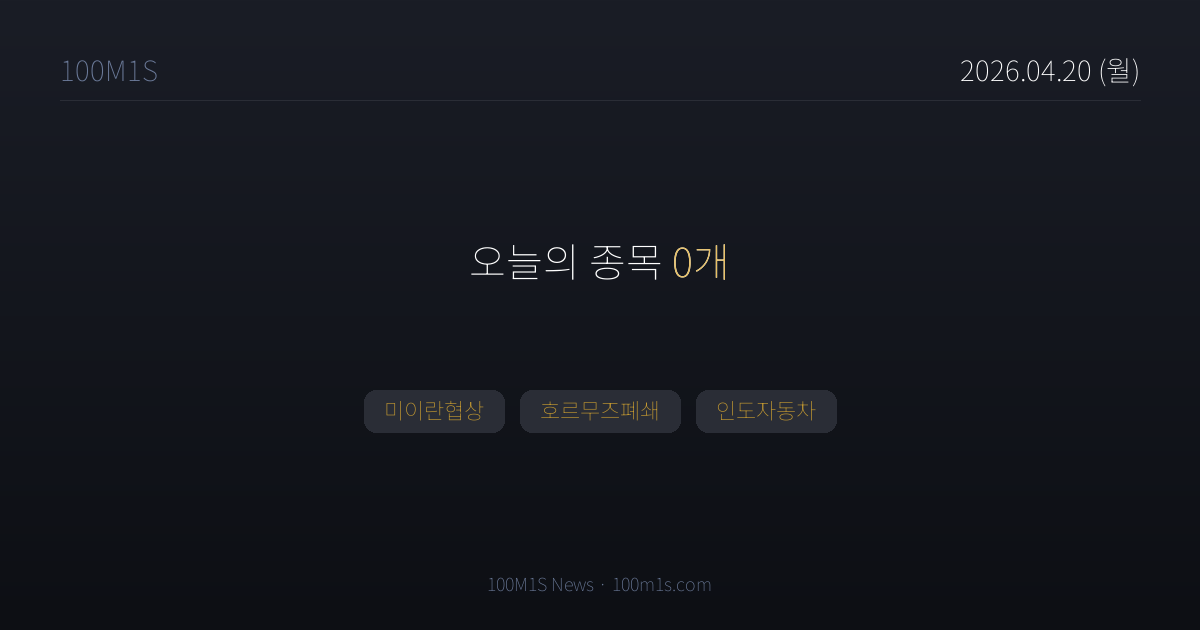
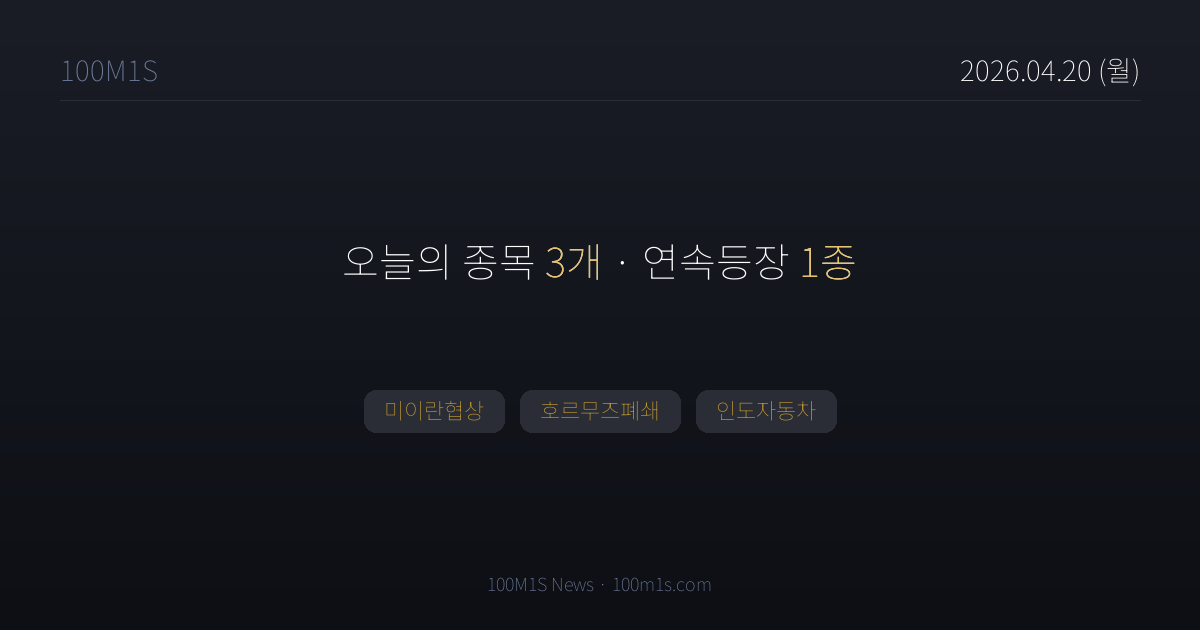
chore(news): 2026-04-20T09:16 pipeline

Changed region(s): [[0.2775, 0.3921, 0.7092, 0.4524]]

diff --git a/news/stock/2026-04-20.html b/news/stock/2026-04-20.html
@@ -3,7 +3,7 @@
 <head>
 <meta charset="UTF-8">
 <title>4월 20일 (월) 뉴스 — 100M1S</title>
-<meta property="og:title" content="4월 20일 (월) · 종목 0개">
+<meta property="og:title" content="4월 20일 (월) · 종목 3개">
 <meta property="og:description" content="미이란협상, 호르무즈폐쇄, 인도자동차">
 <meta property="og:image" content="https://100m1s.com/og/news/stock/2026-04-20.png">
 <meta property="og:image:width" content="1200">
